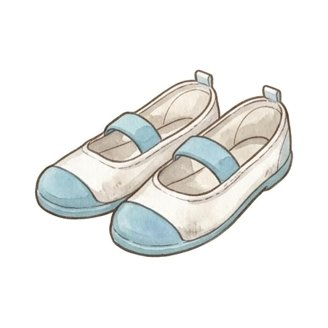
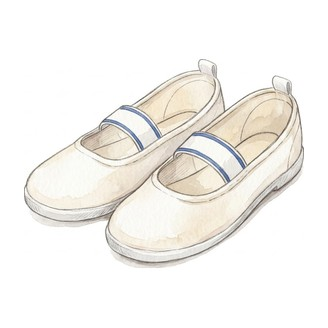
Sua's walk sheet redrawn in the other kids' proportions (big head, small chubby body; same dark skin, ivory cardigan, navy skirt), so her size is back to 1.0; indoor shoes redrawn as Korean school indoor shoes (white canvas slip-ons with an elastic band across the instep, no laces) (BUILD 1105213606

Changed region(s): [[0.061, 0.1829, 0.9451, 0.8232]]

diff --git a/index.html b/index.html
@@ -119,14 +119,14 @@ body,button{word-break:keep-all;overflow-wrap:break-word}
 <div id="fader"></div>
 <script>
 // same address, newest version: if the page this phone has kept is older than the one online, fetch the new one and reopen
-const BUILD='1105212205';
+const BUILD='1105213606';
 try{fetch(location.pathname,{cache:'no-store'}).then(r=>r.text()).then(t=>{const m=t.match(/const BUILD='(\d+)'/);if(m&&m[1]!==BUILD&&sessionStorage.getItem('upd')!==m[1]){sessionStorage.setItem('upd',m[1]);fetch(location.pathname,{cache:'reload'}).then(()=>location.reload())}}).catch(()=>{})}catch(e){}
 </script>
-<script src="i18n.js?v=1105212205"></script>
-<script src="i18n_prologue_v2.js?v=1105212205"></script>
-<script src="day2/i18n_engine.js?v=1105212205"></script>
-<script src="day2/data.js?v=1105212205"></script>
-<script src="day3/data.js?v=1105212205"></script>
+<script src="i18n.js?v=1105213606"></script>
+<script src="i18n_prologue_v2.js?v=1105213606"></script>
+<script src="day2/i18n_engine.js?v=1105213606"></script>
+<script src="day2/data.js?v=1105213606"></script>
+<script src="day3/data.js?v=1105213606"></script>
 <script>
 // ---------- data ----------
 const MW=1672,MH=941,KID=180;
@@ -545,29 +545,29 @@ function pickHero(){const m=document.getElementById('modal'),c=document.getEleme
  c.innerHTML=`<h2>${tr('전학생 반장되기')}</h2><p>${tr('말 한마디 못 하는 전학생,<br>반장 선거에 나가다.')}</p><p style="margin-top:14px">${tr('누구로 할까요?')}</p>${(()=>{const s=loadSave();return s&&s.day>=2&&s.mode===UI+'-'+LANG?`<p><button class="big" id="cont">${tr('{n}일차부터 이어 하기').replace('{n}',s.day)}</button></p>`:''})()}<div class="pick heroes"><button data-h="hero_f"><img src="faces/hero_f_smile.jpg" alt="여자 주인공">${heroName(1)}</button><button data-h="hero_m"><img src="faces/hero_m_smile.jpg" alt="남자 주인공">${heroName(0)}</button></div>`;
  m.classList.add('on');{const cb=document.getElementById('cont');if(cb)cb.onclick=()=>{const s=loadSave();HERO=s.hero;Object.assign(HEART,s.heart||{});(s.found||[]).forEach(k=>FOUND.add(k));HEART_D1={...HEART};chime();(typeof contGame==='function'?contGame(s):startDay(Math.min(s.day,Object.keys(window.D3||{}).length?3:2)))}}c.querySelectorAll('.pick button').forEach(b=>b.onclick=()=>{HERO=b.dataset.h;m.classList.remove('on');chime();bgm('day');load('home_am');say([['nar','','이사 온 다음 날 아침. 아직 풀지 못한 상자들이 쌓여 있다.'],['think','sad','(오늘부터 새 학교야. 여기 말도 아직 서툰데…….)'],['think','smile','({m}한테 인사하고 학교 가야지.)']],morning)})}
 </script>
-<script src="day2/engine.js?v=1105212205"></script>
-<script src="day2/ep_minho.js?v=1105212205"></script>
-<script src="day2/meet.js?v=1105212205"></script>
-<script src="day2/ep_sua.js?v=1105212205"></script>
-<script src="day2/ep_hangyeol.js?v=1105212205"></script>
-<script src="day2/ep_siwoo.js?v=1105212205"></script>
-<script src="day2/ep_haram.js?v=1105212205"></script>
-<script src="day2/ep_jiho.js?v=1105212205"></script>
-<script src="day2/ep_hyeeun.js?v=1105212205"></script>
-<script src="day2/ep_haneul.js?v=1105212205"></script>
-<script src="day2/ep_junho.js?v=1105212205"></script>
-<script src="day2/ep_yuna.js?v=1105212205"></script>
-<script src="day2/ep_yena.js?v=1105212205"></script>
-<script src="day2/ep_haeun.js?v=1105212205"></script>
-<script src="day2/ep_youngmin.js?v=1105212205"></script>
-<script src="day2/ep_seah.js?v=1105212205"></script>
-<script src="day2/ep_jihoon.js?v=1105212205"></script>
-<script src="words_ja_ru.js?v=1105212205"></script>
-<script src="day2/mybag.js?v=1105212205"></script>
-<script src="day2/spots.js?v=1105212205"></script>
-<script src="day2/textfit.js?v=1105212205"></script>
-<script src="day2/tester.js?v=1105212205"></script>
-<script src="day2/ux.js?v=1105212205"></script>
+<script src="day2/engine.js?v=1105213606"></script>
+<script src="day2/ep_minho.js?v=1105213606"></script>
+<script src="day2/meet.js?v=1105213606"></script>
+<script src="day2/ep_sua.js?v=1105213606"></script>
+<script src="day2/ep_hangyeol.js?v=1105213606"></script>
+<script src="day2/ep_siwoo.js?v=1105213606"></script>
+<script src="day2/ep_haram.js?v=1105213606"></script>
+<script src="day2/ep_jiho.js?v=1105213606"></script>
+<script src="day2/ep_hyeeun.js?v=1105213606"></script>
+<script src="day2/ep_haneul.js?v=1105213606"></script>
+<script src="day2/ep_junho.js?v=1105213606"></script>
+<script src="day2/ep_yuna.js?v=1105213606"></script>
+<script src="day2/ep_yena.js?v=1105213606"></script>
+<script src="day2/ep_haeun.js?v=1105213606"></script>
+<script src="day2/ep_youngmin.js?v=1105213606"></script>
+<script src="day2/ep_seah.js?v=1105213606"></script>
+<script src="day2/ep_jihoon.js?v=1105213606"></script>
+<script src="words_ja_ru.js?v=1105213606"></script>
+<script src="day2/mybag.js?v=1105213606"></script>
+<script src="day2/spots.js?v=1105213606"></script>
+<script src="day2/textfit.js?v=1105213606"></script>
+<script src="day2/tester.js?v=1105213606"></script>
+<script src="day2/ux.js?v=1105213606"></script>
 <script>
 // the goal shows big for a few seconds, then folds into a small pill (tap it to open it again)
 {const g=document.getElementById('goal');let t=null;const big=()=>{g.classList.remove('mini');clearTimeout(t);t=setTimeout(()=>g.classList.add('mini'),4000)};

diff --git a/day2/engine.js b/day2/engine.js
@@ -11,7 +11,7 @@ const D2NAME={jinwoo:'진우',haram:'하람',doyeon:'도연',haneul:'하늘',bor
 Object.assign(NAME,D2NAME);
 Object.assign(SZ,{"jinwoo":[0.961,0.983,1.009],"haram":[0.961,0.98,0.974],"doyeon":[0.944,0.976,1.021],"haneul":[0.971,0.988,0.994],"boram":[0.973,0.988,1.002],"youngmin":[0.966,0.983,1.018],"seah":[0.888,0.974,0.974],"hangyeol":[0.956,0.983,0.986],"jiho":[0.919,0.973,1.006]});
 // SIZE_FIT (tools/size/measure.py --fit): z = [body/cell, feet/cell, height x KID], measured from each walk sheet's front row
-Object.assign(SZ,{"boram":[0.98,0.99,1.0],"doyeon":[0.949,0.978,1.0],"haeun":[0.978,0.988,1.0],"haneul":[0.976,0.99,1.0],"hangyeol":[0.963,0.988,1.0],"haram":[0.963,0.983,1.0],"hero_f":[0.913,0.971,1.0],"hero_m":[0.969,0.987,1.0],"hyeeun":[0.966,0.985,1.0],"jiho":[0.954,0.988,1.0],"jihoon":[0.971,0.985,1.0],"jinwoo":[0.964,0.983,1.0],"junho":[0.971,0.985,1.06],"minho":[0.95,0.979,1.06],"mom":[0.965,0.983,1.32],"seah":[0.89,0.976,1.0],"siwoo":[0.953,0.988,1.0],"sua":[0.95,0.98,1.05],"yena":[0.964,0.983,1.0],"youngmin":[0.939,0.983,1.0],"yuna":[0.944,0.978,1.0]});
+Object.assign(SZ,{"boram":[0.98,0.99,1.0],"doyeon":[0.949,0.978,1.0],"haeun":[0.978,0.988,1.0],"haneul":[0.976,0.99,1.0],"hangyeol":[0.963,0.988,1.0],"haram":[0.963,0.983,1.0],"hero_f":[0.913,0.971,1.0],"hero_m":[0.969,0.987,1.0],"hyeeun":[0.966,0.985,1.0],"jiho":[0.954,0.988,1.0],"jihoon":[0.971,0.985,1.0],"jinwoo":[0.964,0.983,1.0],"junho":[0.971,0.985,1.06],"minho":[0.95,0.979,1.06],"mom":[0.965,0.983,1.32],"seah":[0.89,0.976,1.0],"siwoo":[0.953,0.988,1.0],"sua":[0.973,0.988,1.0],"yena":[0.964,0.983,1.0],"youngmin":[0.939,0.983,1.0],"yuna":[0.944,0.978,1.0]});
 // the shared morning word + every friend's words, in every language; translations of every line
 const D2WORDS={handkerchief:{ko:'손수건',en:'handkerchief',id:'sapu tangan',vi:'khăn tay',zh:'手帕',card:'손수건'},
  chalk:{ko:'분필',en:'chalk',id:'kapur',vi:'phấn',zh:'粉笔'},umbrella:{ko:'우산',en:'umbrella',id:'payung',vi:'cái ô',zh:'雨伞'},ball:{ko:'공',en:'ball',id:'bola',vi:'quả bóng',zh:'球'},
